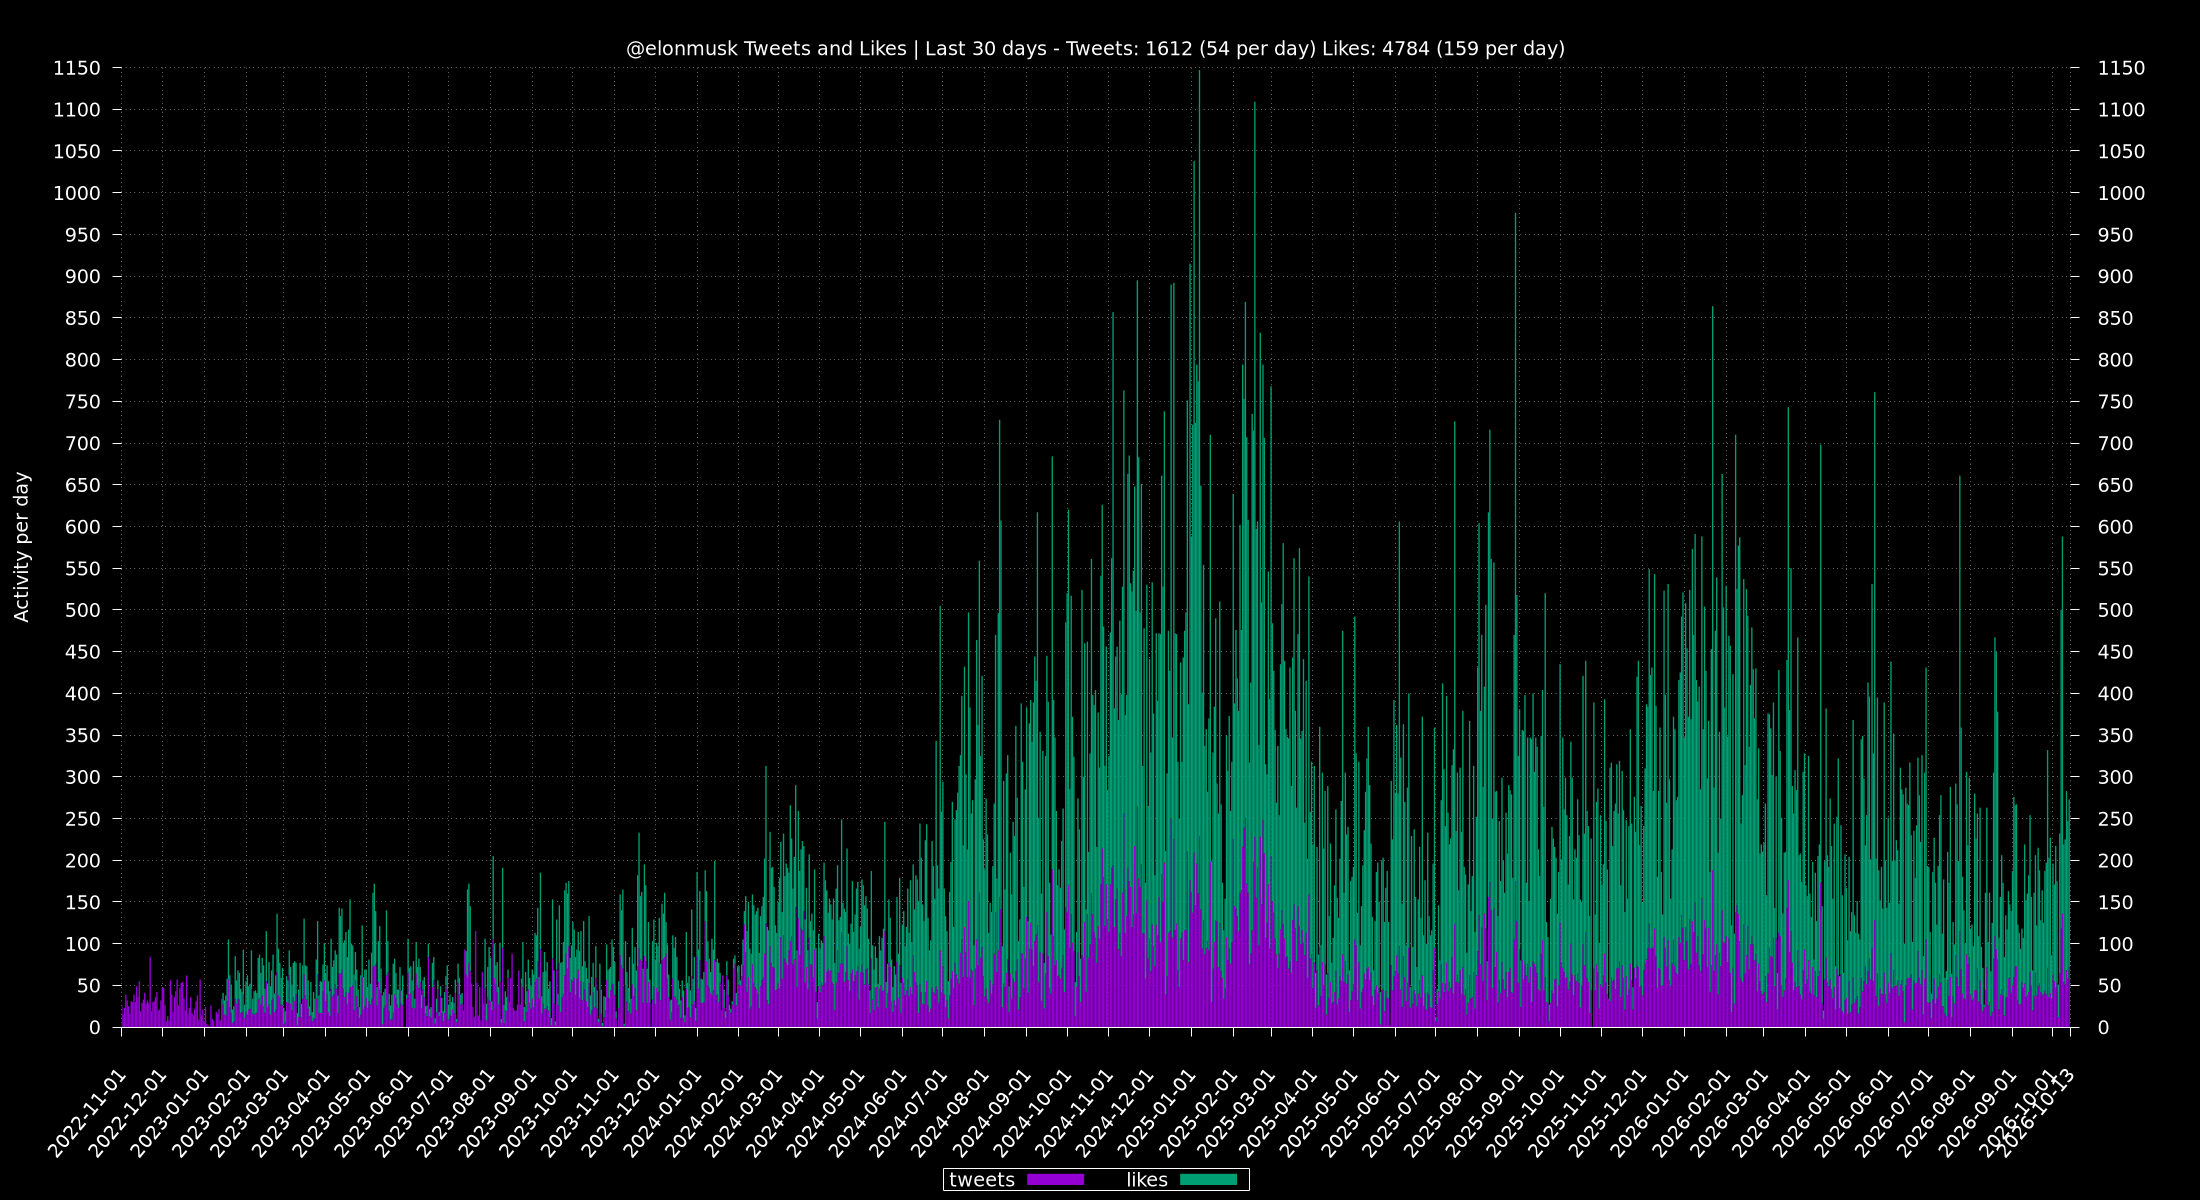
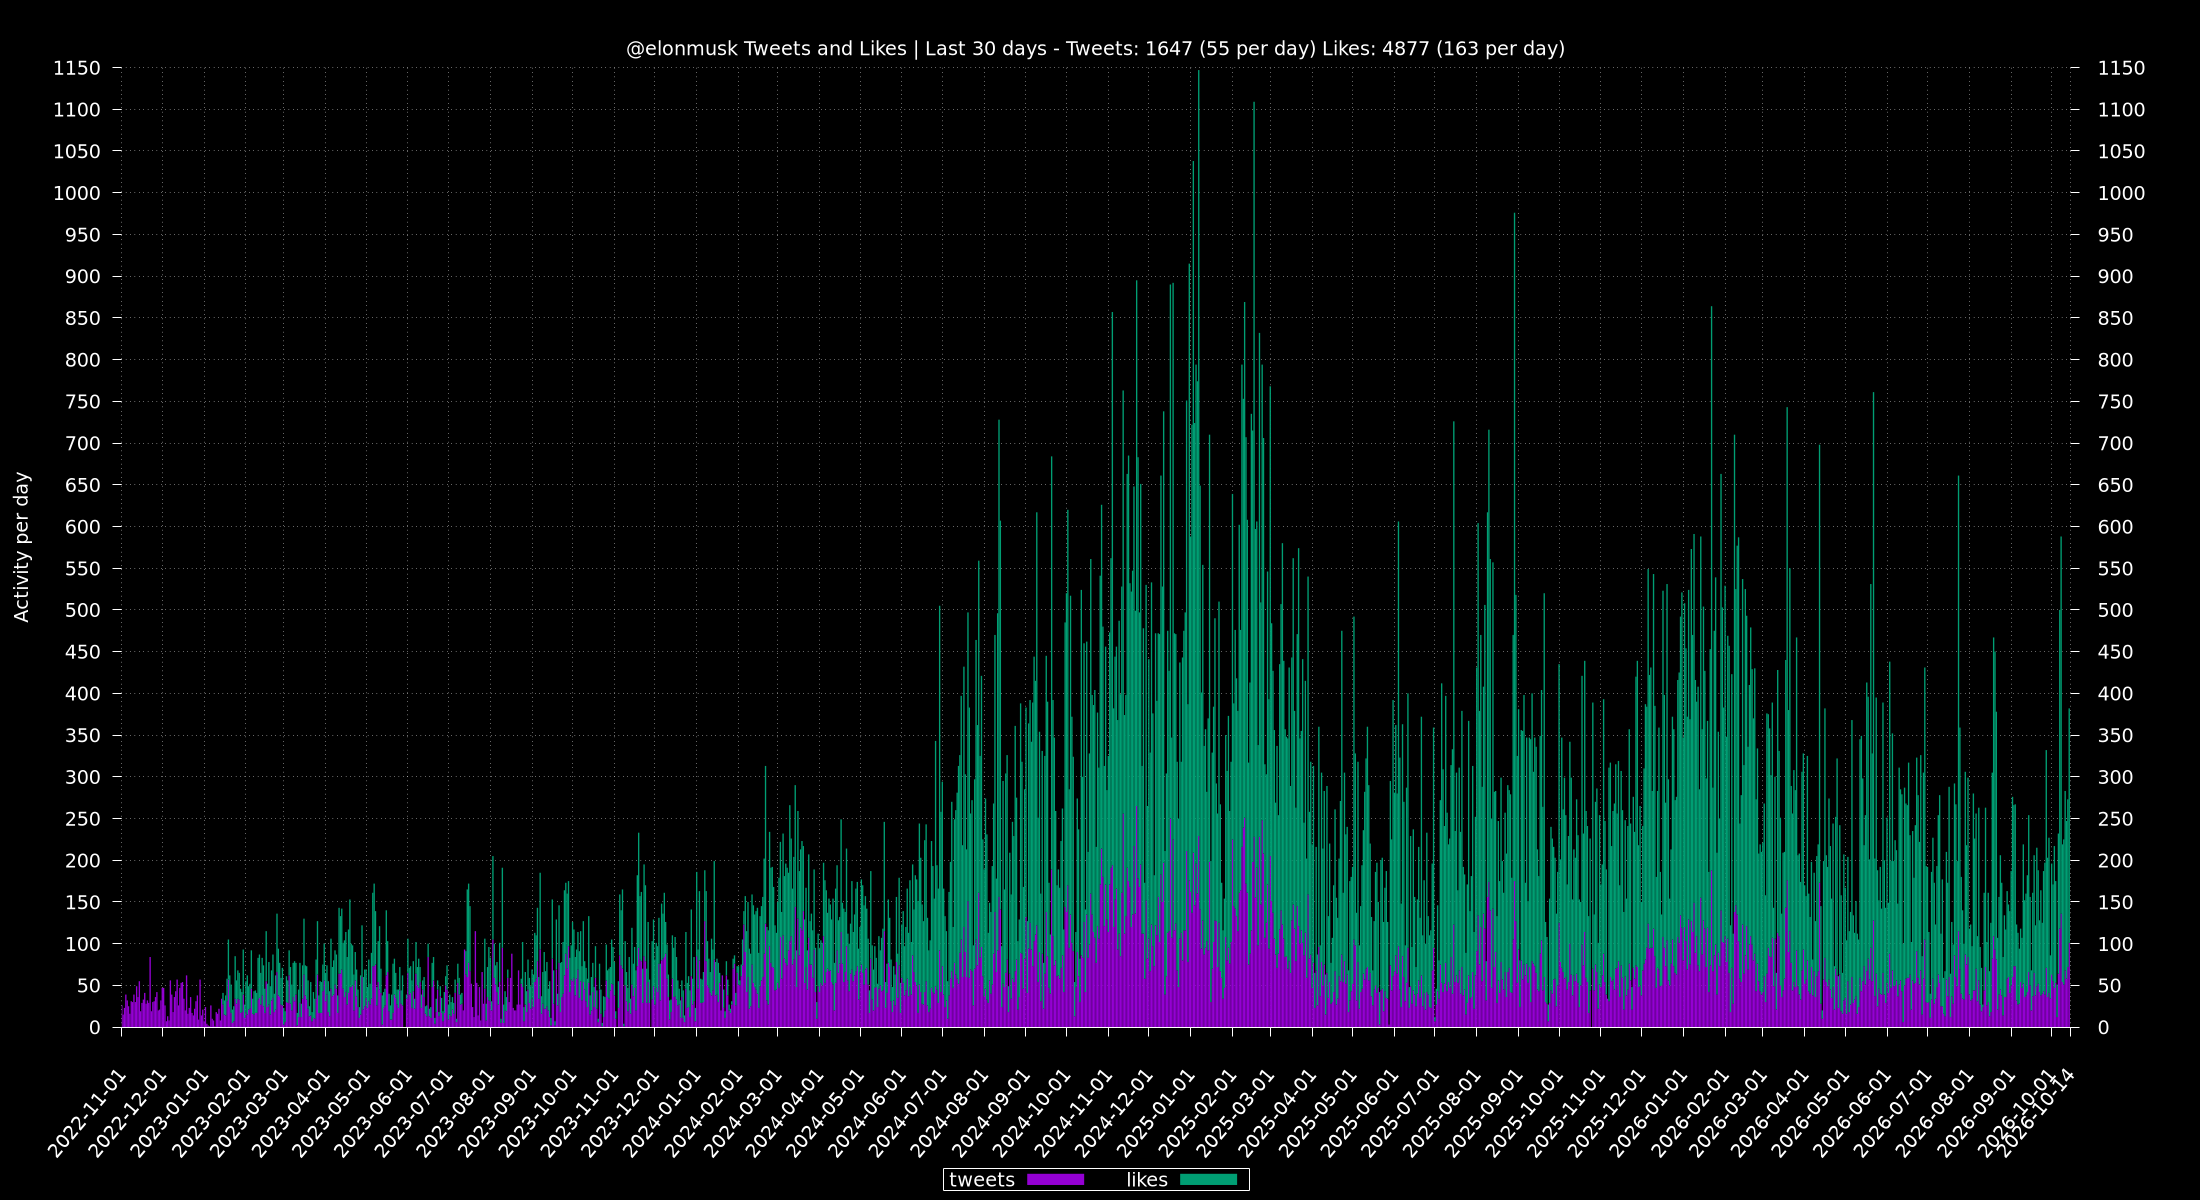
update via cron

diff --git a/totals/README.md b/totals/README.md
@@ -1,6 +1,6 @@
 ## Last 30 Days
-Tweets: 1612 (54 per day)\
-Likes: 4784 (159 per day)
+Tweets: 1647 (55 per day)\
+Likes: 4877 (163 per day)
 
 ## 24 Hours
 Max: [**341**](../misc/most-tweets_24-hr.csv) - From `2024-11-23 14:29:53 CST` To `2024-11-24 14:28:44 CST`
